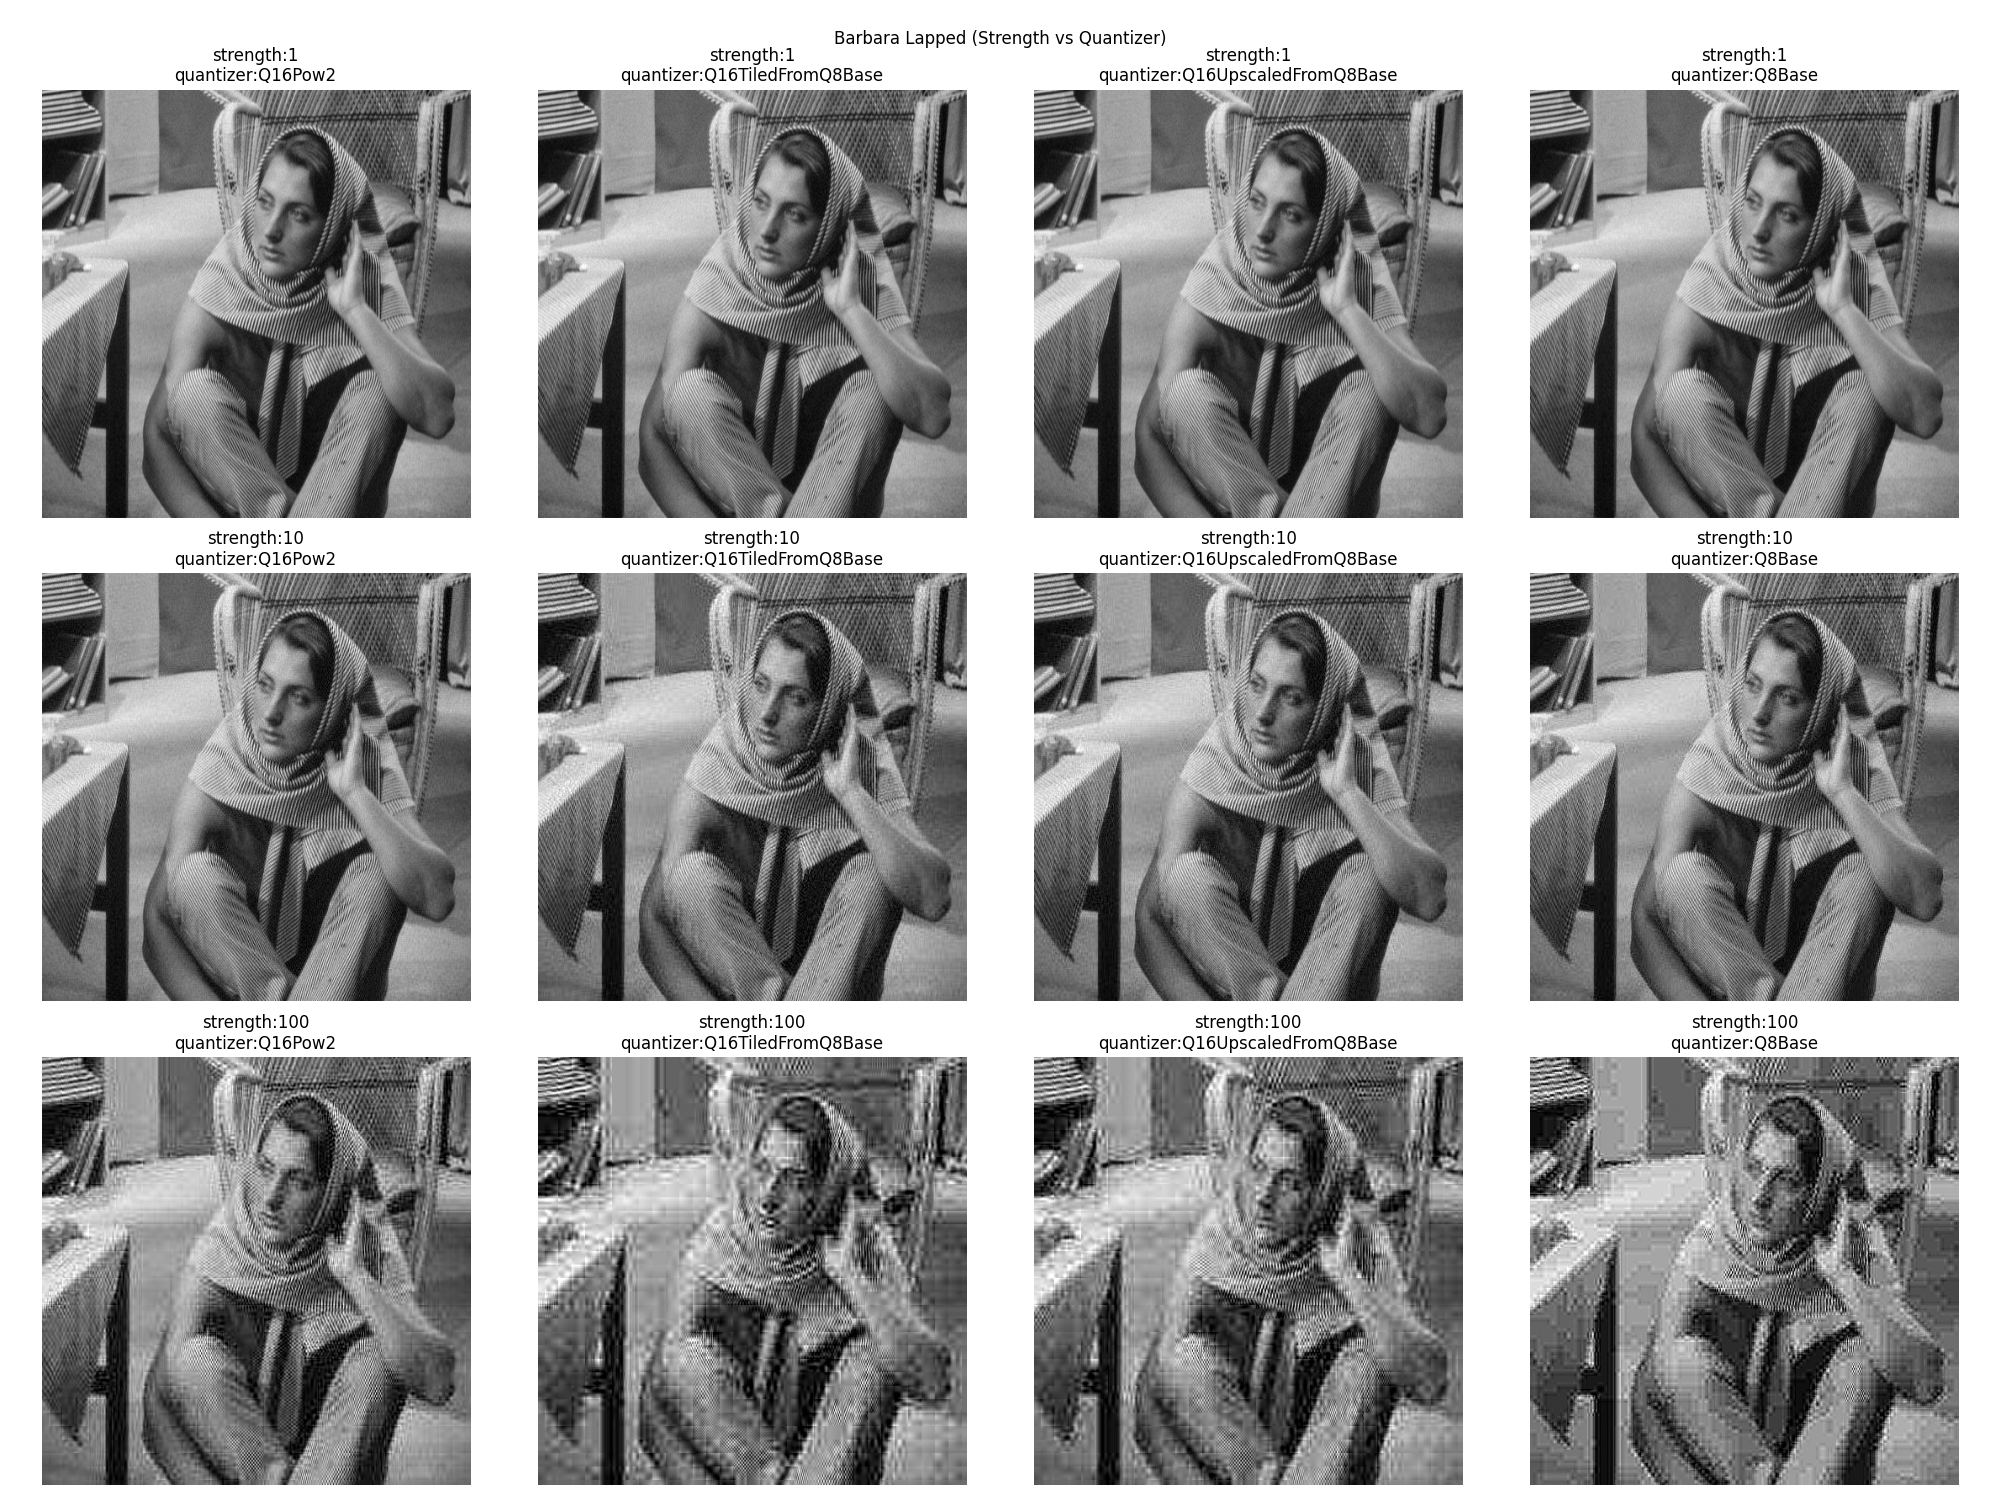
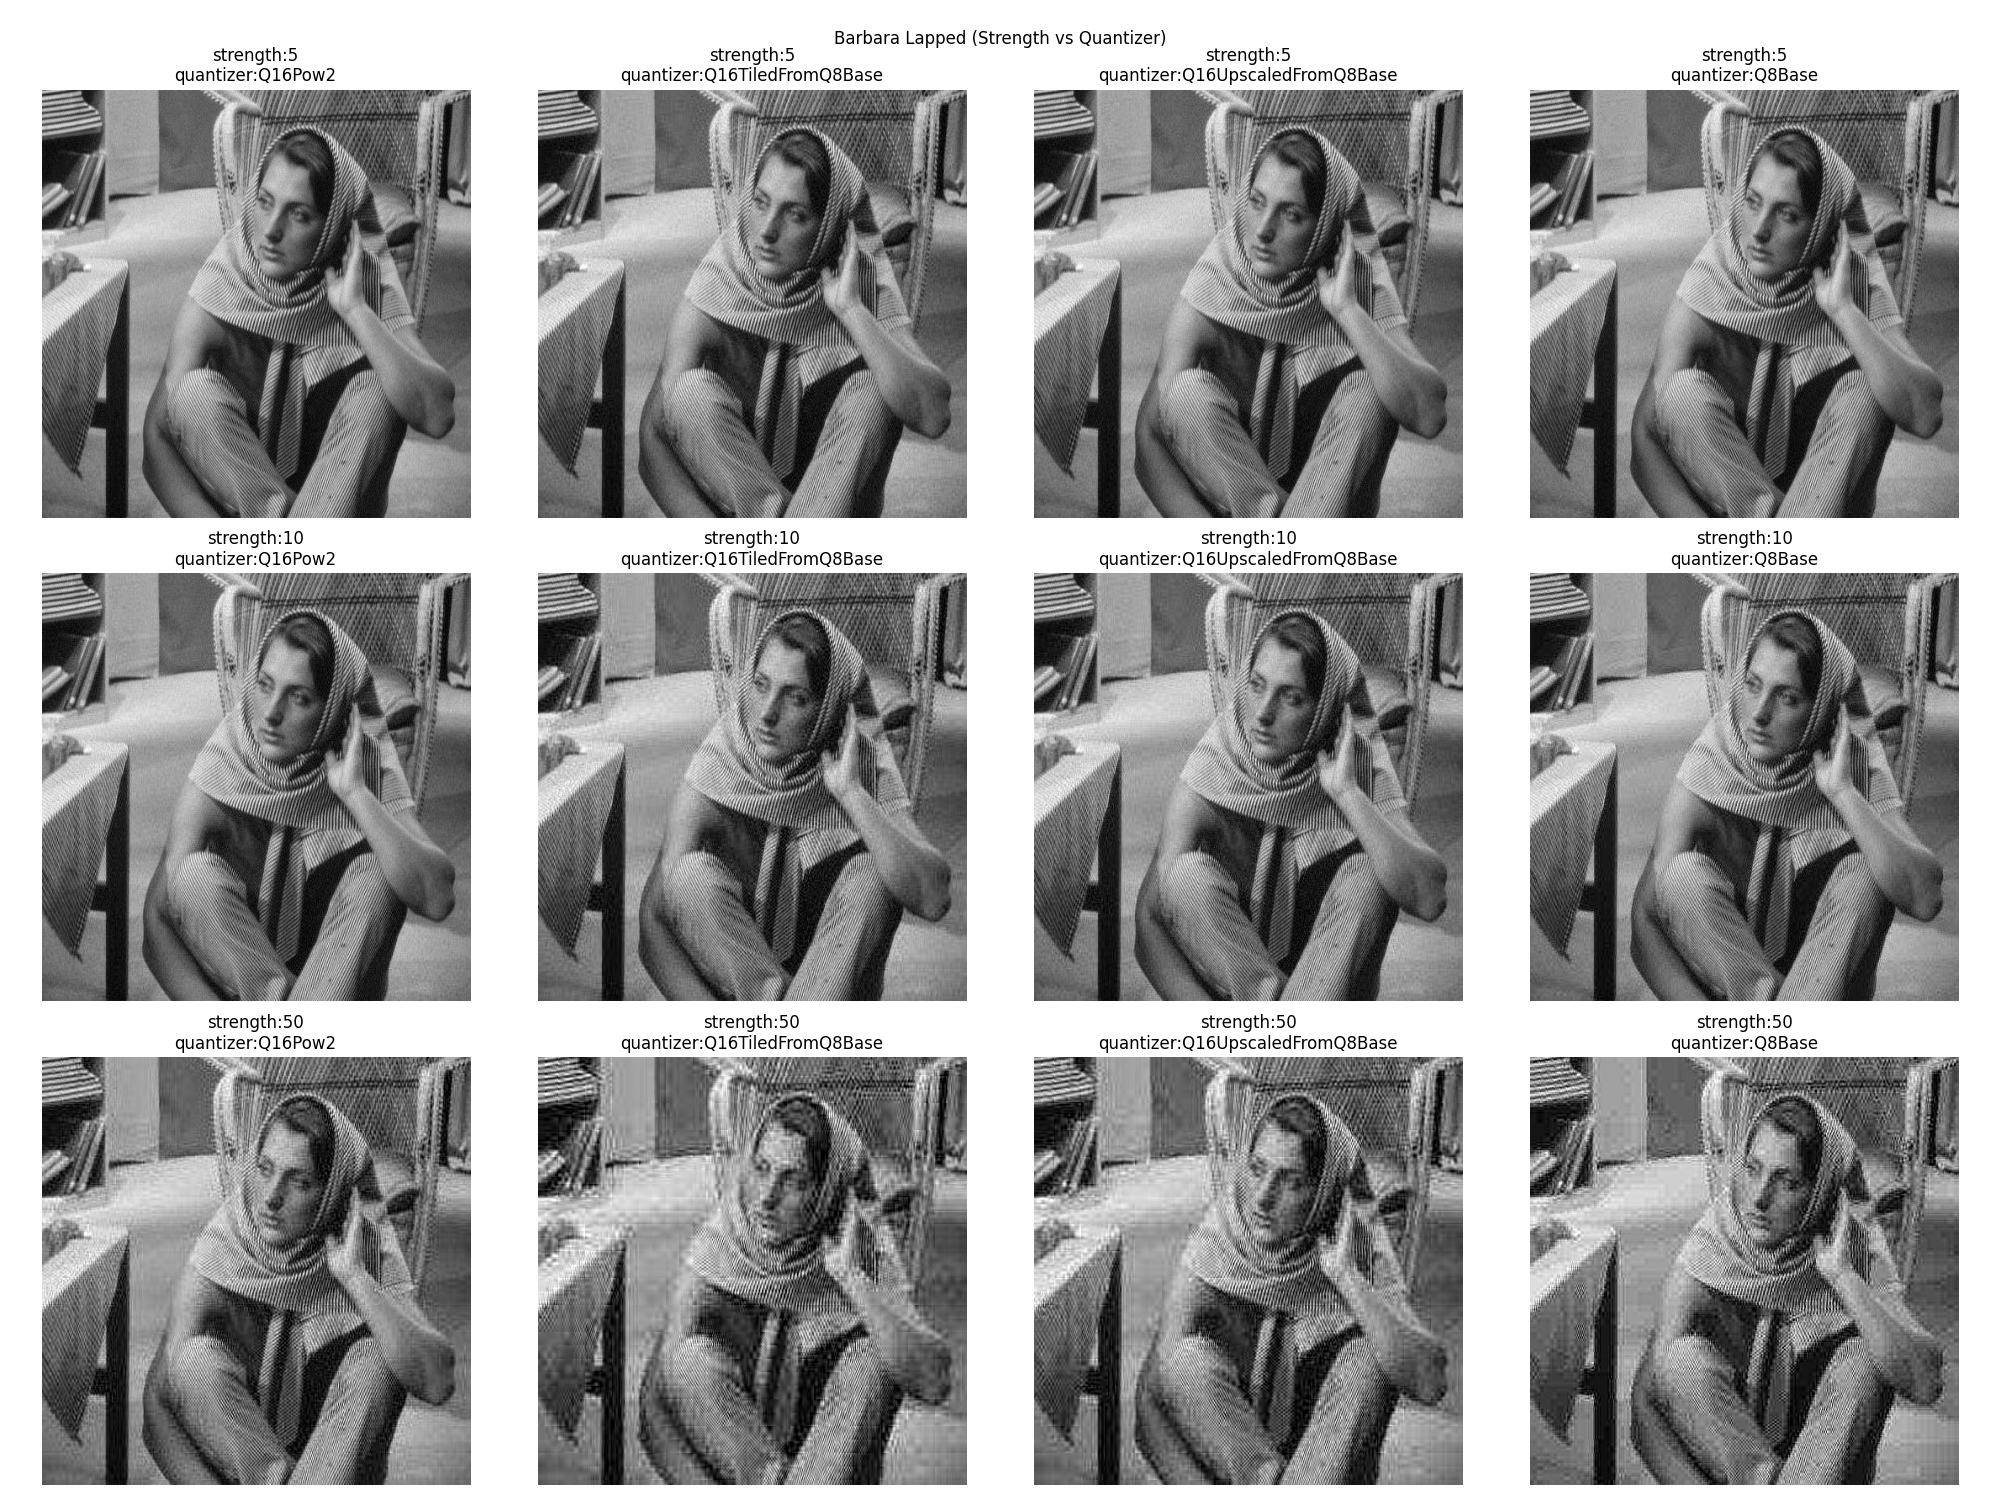
update strength

Changed region(s): [[0.093, 0.6747, 0.992, 1.0], [0.031, 0.7053, 0.062, 0.9507]]

diff --git a/main.cpp b/main.cpp
@@ -80,52 +80,55 @@ Summary runCodecDemo(const string &example, const string &ext = ".jpg") {
   };
 }
 
+int constexpr WEAK = 5;
+int constexpr MEDIUM = 10;
+int constexpr STRONG = 50;
+
 int main() {
   vector<string> examples = {"barbara", "panda_small"};
-  vector<int> strengths = {1, 10, 100};
 
   vector<Summary> summary;
 
   /// BLOCK
   for (auto &e : examples) {
     /// BLOCK
-    summary.push_back(runCodecDemo<Quantizer8Base, false, 1>(e));
-    summary.push_back(runCodecDemo<Quantizer16Pow2, false, 1>(e));
-    summary.push_back(runCodecDemo<Quantizer16Tiled, false, 1>(e));
-    summary.push_back(runCodecDemo<Quantizer16Upscaled, false, 1>(e));
+    summary.push_back(runCodecDemo<Quantizer8Base, false, WEAK>(e));
+    summary.push_back(runCodecDemo<Quantizer16Pow2, false, WEAK>(e));
+    summary.push_back(runCodecDemo<Quantizer16Tiled, false, WEAK>(e));
+    summary.push_back(runCodecDemo<Quantizer16Upscaled, false, WEAK>(e));
 
-    summary.push_back(runCodecDemo<Quantizer8Base, false, 10>(e));
-    summary.push_back(runCodecDemo<Quantizer16Pow2, false, 10>(e));
-    summary.push_back(runCodecDemo<Quantizer16Tiled, false, 10>(e));
-    summary.push_back(runCodecDemo<Quantizer16Upscaled, false, 10>(e));
+    summary.push_back(runCodecDemo<Quantizer8Base, false, MEDIUM>(e));
+    summary.push_back(runCodecDemo<Quantizer16Pow2, false, MEDIUM>(e));
+    summary.push_back(runCodecDemo<Quantizer16Tiled, false, MEDIUM>(e));
+    summary.push_back(runCodecDemo<Quantizer16Upscaled, false, MEDIUM>(e));
 
-    summary.push_back(runCodecDemo<Quantizer8Base, false, 100>(e));
-    summary.push_back(runCodecDemo<Quantizer16Pow2, false, 100>(e));
-    summary.push_back(runCodecDemo<Quantizer16Tiled, false, 100>(e));
-    summary.push_back(runCodecDemo<Quantizer16Upscaled, false, 100>(e));
+    summary.push_back(runCodecDemo<Quantizer8Base, false, STRONG>(e));
+    summary.push_back(runCodecDemo<Quantizer16Pow2, false, STRONG>(e));
+    summary.push_back(runCodecDemo<Quantizer16Tiled, false, STRONG>(e));
+    summary.push_back(runCodecDemo<Quantizer16Upscaled, false, STRONG>(e));
 
     /// LAPPED
-    summary.push_back(runCodecDemo<Quantizer8Base, true, 1>(e));
-    summary.push_back(runCodecDemo<Quantizer16Pow2, true, 1>(e));
-    summary.push_back(runCodecDemo<Quantizer16Tiled, true, 1>(e));
-    summary.push_back(runCodecDemo<Quantizer16Upscaled, true, 1>(e));
+    summary.push_back(runCodecDemo<Quantizer8Base, true, WEAK>(e));
+    summary.push_back(runCodecDemo<Quantizer16Pow2, true, WEAK>(e));
+    summary.push_back(runCodecDemo<Quantizer16Tiled, true, WEAK>(e));
+    summary.push_back(runCodecDemo<Quantizer16Upscaled, true, WEAK>(e));
 
-    summary.push_back(runCodecDemo<Quantizer8Base, true, 10>(e));
-    summary.push_back(runCodecDemo<Quantizer16Pow2, true, 10>(e));
-    summary.push_back(runCodecDemo<Quantizer16Tiled, true, 10>(e));
-    summary.push_back(runCodecDemo<Quantizer16Upscaled, true, 10>(e));
+    summary.push_back(runCodecDemo<Quantizer8Base, true, MEDIUM>(e));
+    summary.push_back(runCodecDemo<Quantizer16Pow2, true, MEDIUM>(e));
+    summary.push_back(runCodecDemo<Quantizer16Tiled, true, MEDIUM>(e));
+    summary.push_back(runCodecDemo<Quantizer16Upscaled, true, MEDIUM>(e));
 
-    summary.push_back(runCodecDemo<Quantizer8Base, true, 100>(e));
-    summary.push_back(runCodecDemo<Quantizer16Pow2, true, 100>(e));
-    summary.push_back(runCodecDemo<Quantizer16Tiled, true, 100>(e));
-    summary.push_back(runCodecDemo<Quantizer16Upscaled, true, 100>(e));
+    summary.push_back(runCodecDemo<Quantizer8Base, true, STRONG>(e));
+    summary.push_back(runCodecDemo<Quantizer16Pow2, true, STRONG>(e));
+    summary.push_back(runCodecDemo<Quantizer16Tiled, true, STRONG>(e));
+    summary.push_back(runCodecDemo<Quantizer16Upscaled, true, STRONG>(e));
   }
 
   cout << "\n" << setfill('=') << setw(100) << "" << endl;
   cout << setfill(' ');
   cout << left << setw(15) << "Image" << setw(10) << "Type" << setw(10)
        << "Strength" << setw(25) << "Quantizer" << setw(12) << "MSE Avg"
-       << setw(12) << "SSIM2" << setw(12) << "Ratio" << endl;
+       << setw(12) << "SSIM2" << setw(12) << "Compression" << endl;
   cout << setw(100) << setfill('-') << "" << setfill(' ') << endl;
 
   for (const auto &s : summary) {
